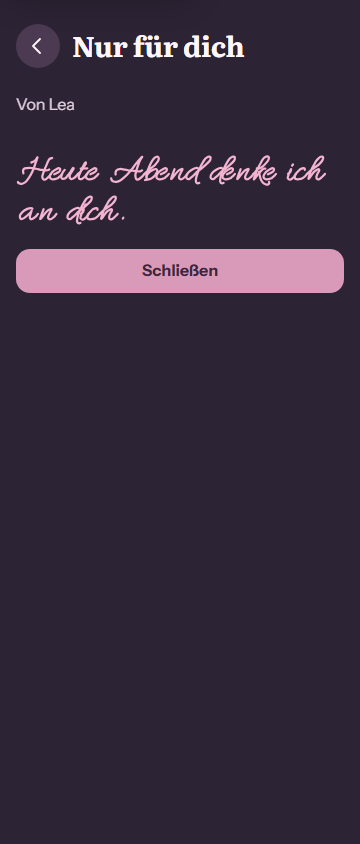
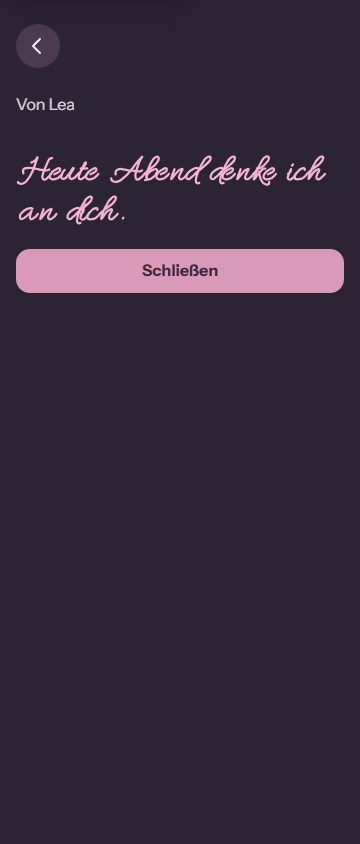
feat(once-messages): let the handwritten words lead an open message (#2372)
Product Owner decision (2026-11-28): while a once message is open, the
page title is hidden visually, so the handwritten words lead below Back
and the sender line. The title stays the page's level-one heading for
assistive technology. The browser journey checks that it is still
exposed and takes no space, and the evidence is refreshed.

Changed region(s): [[0.1833, 0.0308, 0.6722, 0.0924]]

diff --git a/web/e2e/tests/once-messages.spec.ts b/web/e2e/tests/once-messages.spec.ts
@@ -273,6 +273,16 @@ test('two devices exchange actual encrypted content, deliberately reveal once an
     await expect(receiver.locator('.once-handwriting .sr-only')).toHaveText(
       WORDS,
     );
+    // The page title steps back visually but stays the page's heading.
+    const title = receiver.getByRole('heading', {
+      level: 1,
+      name: copy.title,
+      exact: true,
+    });
+    await expect(title).toHaveCount(1);
+    expect(
+      await title.evaluate((element) => element.getBoundingClientRect().height),
+    ).toBeLessThanOrEqual(1);
     await expect(handwriting).toHaveAttribute('data-phase', 'playing');
     await receiver.waitForTimeout(1_100);
     await captureScreenshot(

diff --git a/web/src/components/OnceMessages.css b/web/src/components/OnceMessages.css
@@ -124,6 +124,20 @@
   font: var(--font-utility-heading);
 }
 
+/* #2372: an open message leads with its handwritten words; the page title
+   stays in the accessibility tree only, like `.sr-only`. */
+.once-page .page-heading.page-heading-secondary.once-heading-quiet h1 {
+  position: absolute;
+  width: 1px;
+  height: 1px;
+  margin: -1px;
+  padding: 0;
+  overflow: hidden;
+  clip: rect(0, 0, 0, 0);
+  white-space: nowrap;
+  border: 0;
+}
+
 /*
  * #2372: the opened message written by hand. Each stroke has
  * `pathLength="1"` and draws in with the catalogue's Enter `draw` keyframes

diff --git a/web/src/components/OnceMessages.tsx b/web/src/components/OnceMessages.tsx
@@ -570,6 +570,9 @@ function OnceTask({
   const header = (
     <PageHeader
       title={t('onceMessages.title')}
+      // #2372: while a message is open, its words lead; the page title stays
+      // only for assistive technology (Product Owner, 2026-11-28).
+      className={mode === 'read' && content ? 'once-heading-quiet' : ''}
       titleContext={mode === 'compose' ? <ProMark label="Pro" /> : undefined}
       before={
         <TaskBackButton

diff --git a/docs/product/design/evidence/2372/README.md b/docs/product/design/evidence/2372/README.md
@@ -3,7 +3,7 @@
 Captured with Playwright Chromium from `web/e2e/tests/once-messages.spec.ts`, run with `SCREENSHOT_EXPORT_DIR`. The messages are really encrypted between two browser contexts; the server is mocked.
 
 - `once-open-handwriting-writing-390-light.png`: about 1.1 s after opening. The partner's words are halfway written.
-- `once-open-390-light.png`, `once-open-360-dark.png` and `once-open-430-light.png`: the finished handwriting, wrapped to the reading width.
+- `once-open-390-light.png`, `once-open-360-dark.png` and `once-open-430-light.png`: the finished handwriting, wrapped to the reading width. While a message is open, the page title is visually hidden (Product Owner, 2026-11-28) and stays the page's heading for assistive technology, so the words lead below Back and the sender line.
 - `once-open-320-light-large-reduced.png`: 320 px with 200 % text and reduced motion. The handwriting appears finished at once and grows with the text size.
 - `once-voice-390-light.png` and `once-photo-390-light.png`: voice and photo-only messages, unchanged.
 
